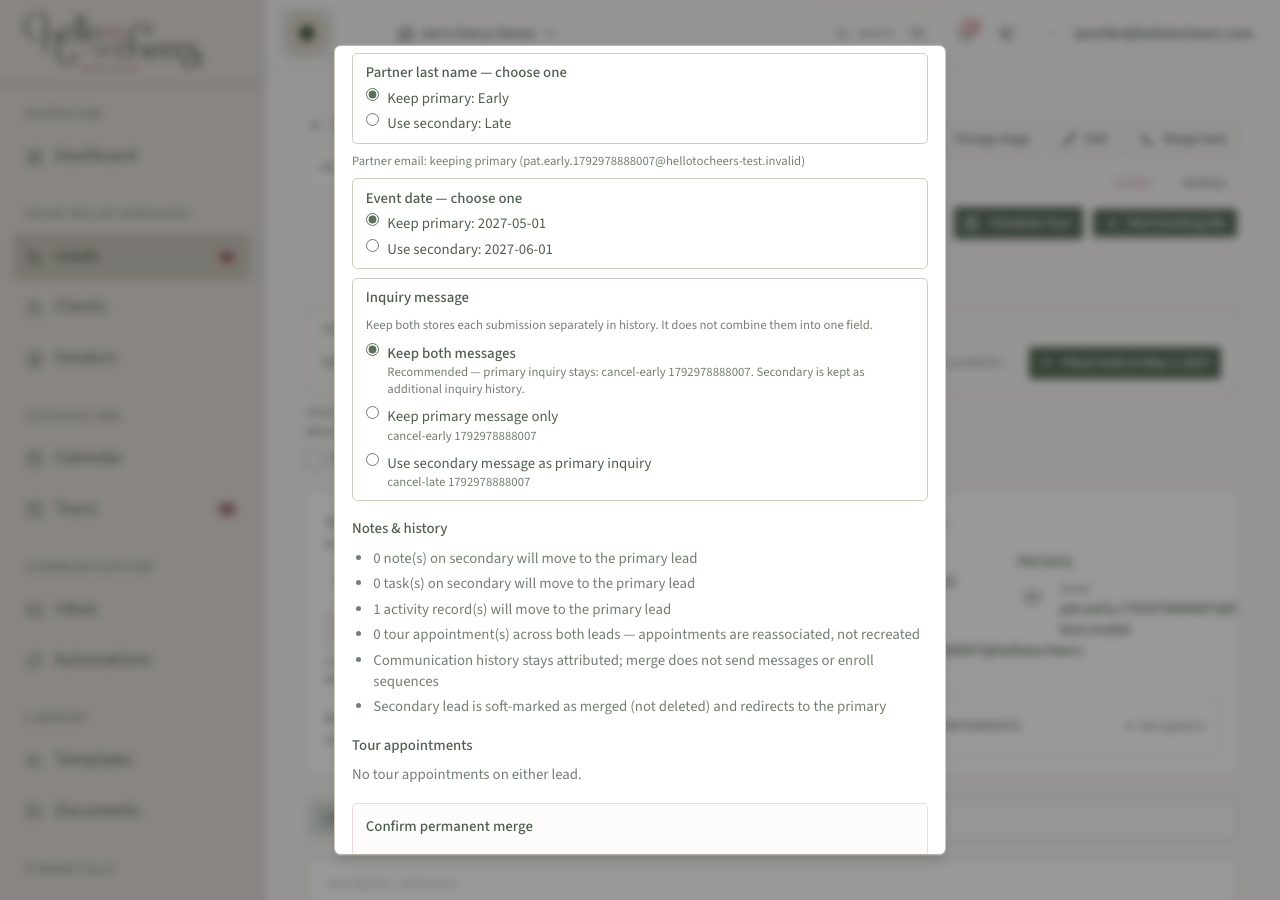
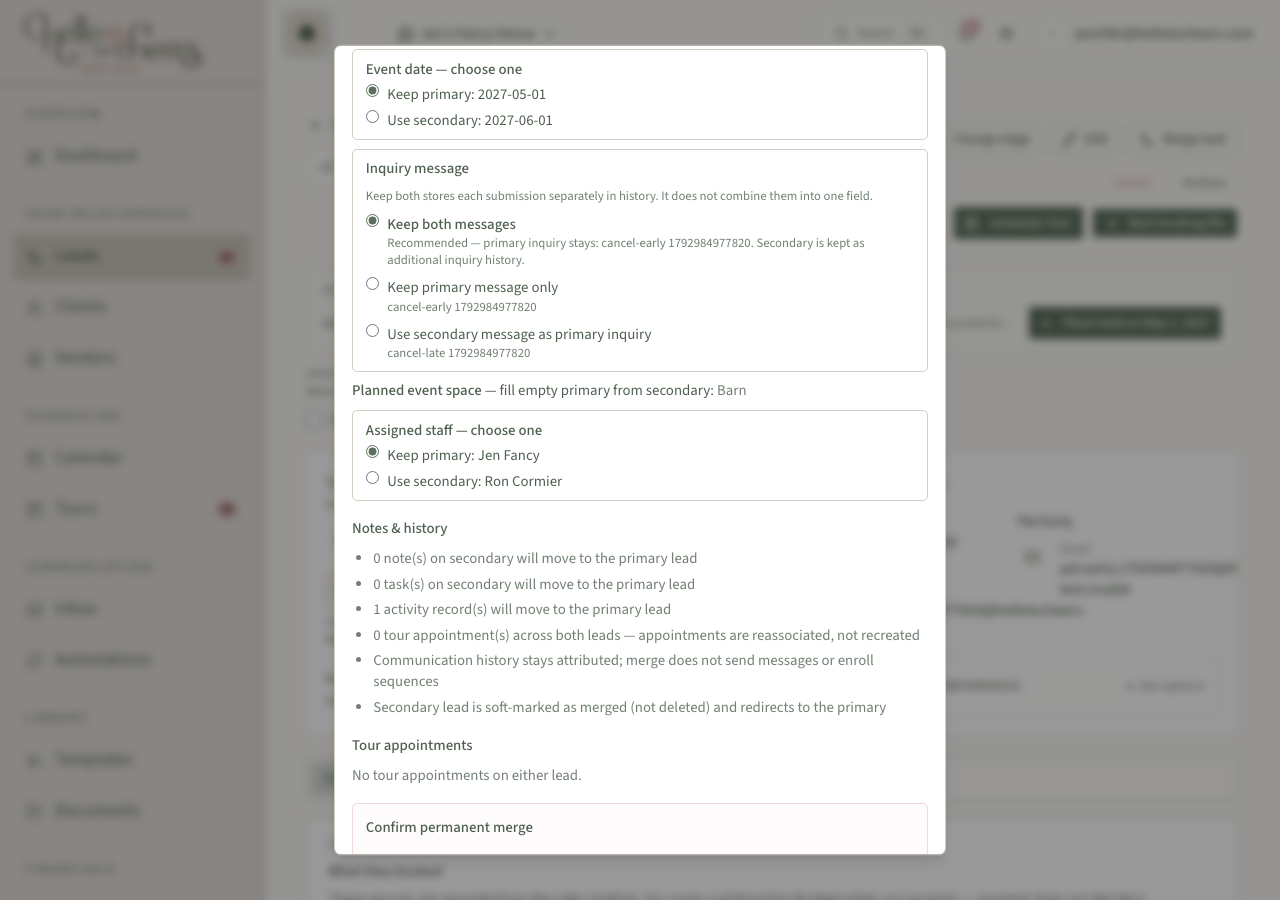
Record Merge Lead FK label Sandbox GREEN with UUID cast migration.
Preview names and post-merge space/staff persistence verified on serving 889f005e after applying 20261423400000.

diff --git a/docs/qa/merge-lead-fk-labels/STATUS.md b/docs/qa/merge-lead-fk-labels/STATUS.md
@@ -1,24 +1,44 @@
 # STATUS — Merge Lead FK preview labels
 
-**Verdict: IN PROGRESS** (awaiting Sandbox serve + browser)
+**Verdict: GREEN / CLOSED**
 
 ## Root cause
 
-Merge preview `FieldDiff` stored and rendered `planned_event_space_id` / `assigned_staff_id` as raw UUID strings. Underlying IDs were correct for merge execution; presentation lacked authoritative name resolution.
+1. **Preview labels:** Merge preview `FieldDiff` stored and rendered `planned_event_space_id` / `assigned_staff_id` as raw UUID strings. Underlying IDs were correct for merge execution; presentation lacked authoritative name resolution from `venue_spaces.name` / `venue_staff.full_name`.
+2. **Persist blocker (exposed by FK fixtures):** `merge_leads_v1` assigned jsonb text (`->>`) to uuid columns without `::uuid`, so confirm failed with: `column "assigned_staff_id" is of type uuid but expression is of type text`.
 
 ## Fix
 
-- Preview loads `venue_spaces.name` and `venue_staff.full_name` for FK ids in diffs
-- `FieldDiff` keeps `*Value` as IDs and adds `*Display` for venue-facing labels
-- Dialog renders via `fieldDiffShown` only
+- Preview loads `venue_spaces.name` and `venue_staff.full_name` for FK ids in diffs (`889f005e`)
+- `FieldDiff` keeps `*Value` as IDs and adds `*Display` for venue-facing labels; dialog renders via `fieldDiffShown`
 - Missing related rows → `Unnamed event space` / `Unknown staff member` (never UUID)
+- Sandbox migration `20261423400000_merge_leads_uuid_fk_cast.sql` (`1fcd4ec1`) casts UUID FK patch columns like date columns
+
+## Serving evidence (Sandbox)
+
+| Item | Value |
+|------|--------|
+| Venue-app image SHA | `889f005e8529e79ec35129a41889712463058df5` |
+| Image digest | `sha256:307b519809123cb1a9174f7958a5d8acfcb1c4021c26882fa41f7acd8d5d3d47` |
+| DB migration commit | `1fcd4ec1` |
+| Migration apply | [40263751062](https://github.com/jlcormier612/wevenu-website/actions/runs/40263751062) **success** |
+| App deploy (labels) | prior run for `889f005e` (digest above) |
 
 ## Tests / build
 
 | Check | Result |
 |-------|--------|
-| `merge.test.ts` + `merge-client-boundary.test.ts` | **39 pass** (`unit-test.log`) |
-| `npm run build` | **EXIT 0** (`production-build.log`) |
+| `merge.test.ts` + `merge-client-boundary.test.ts` | **40 pass** (`unit-test-r2.log`) |
+| `npm run build` | **EXIT 0** (`production-build.log`, labels commit) |
+| Browser + persist | **GREEN** (`browser-run-after-uuid-cast.log`) |
+
+### Browser highlights
+
+- `preview-space-shows-name` → `Barn` (not UUID)
+- `preview-staff-shows-names` → `Jen Fancy` / `Ron Cormier`
+- `redirect-to-survivor` + toast `Leads merged…`
+- `space-filled-on-survivor` + `staff-kept-primary-on-survivor` IDs persisted
+- Continue-gate / cancel path unchanged and passing
 
 ## Production
 
